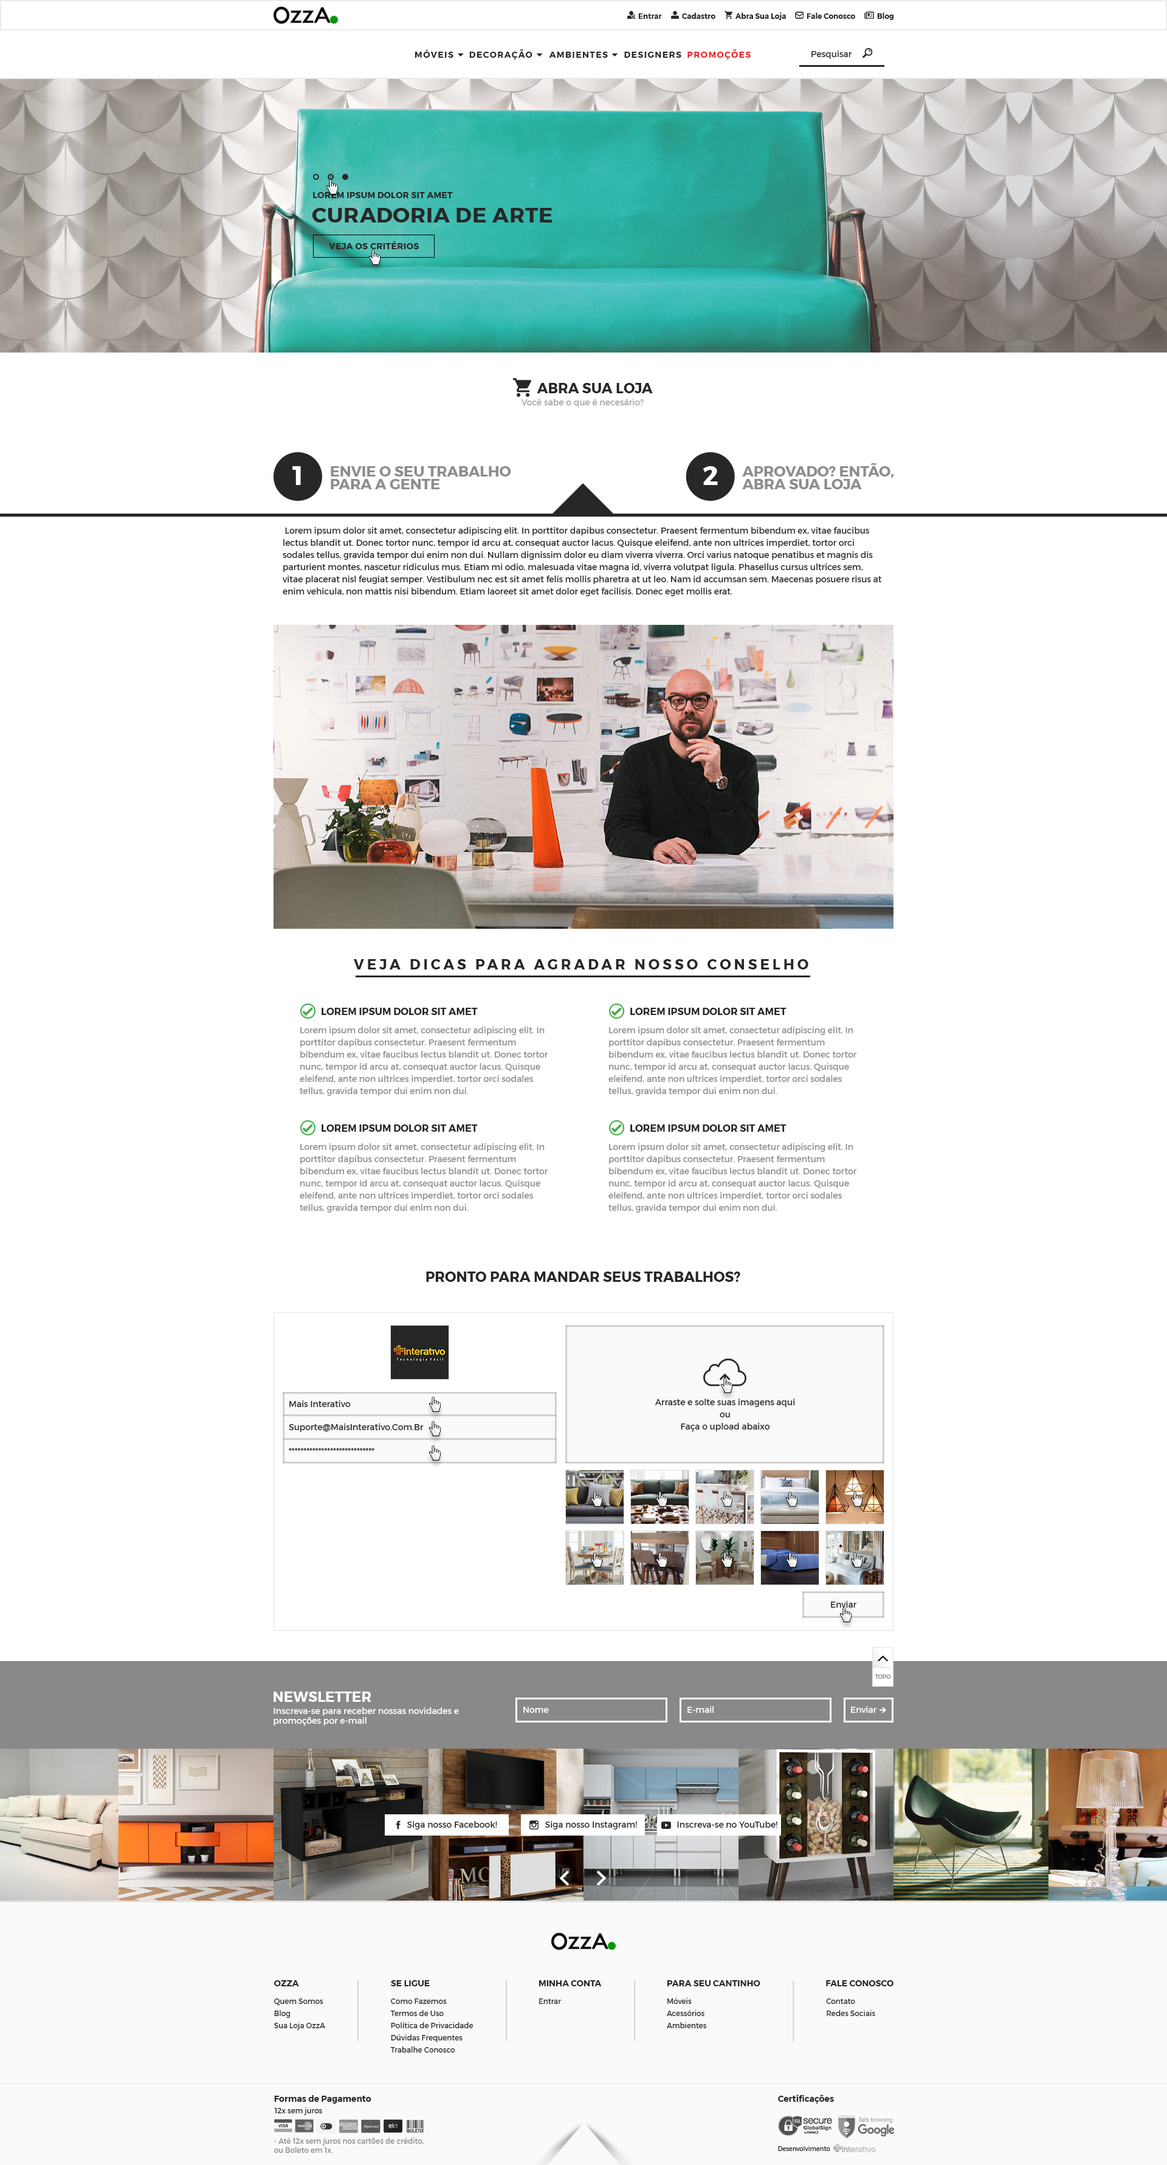
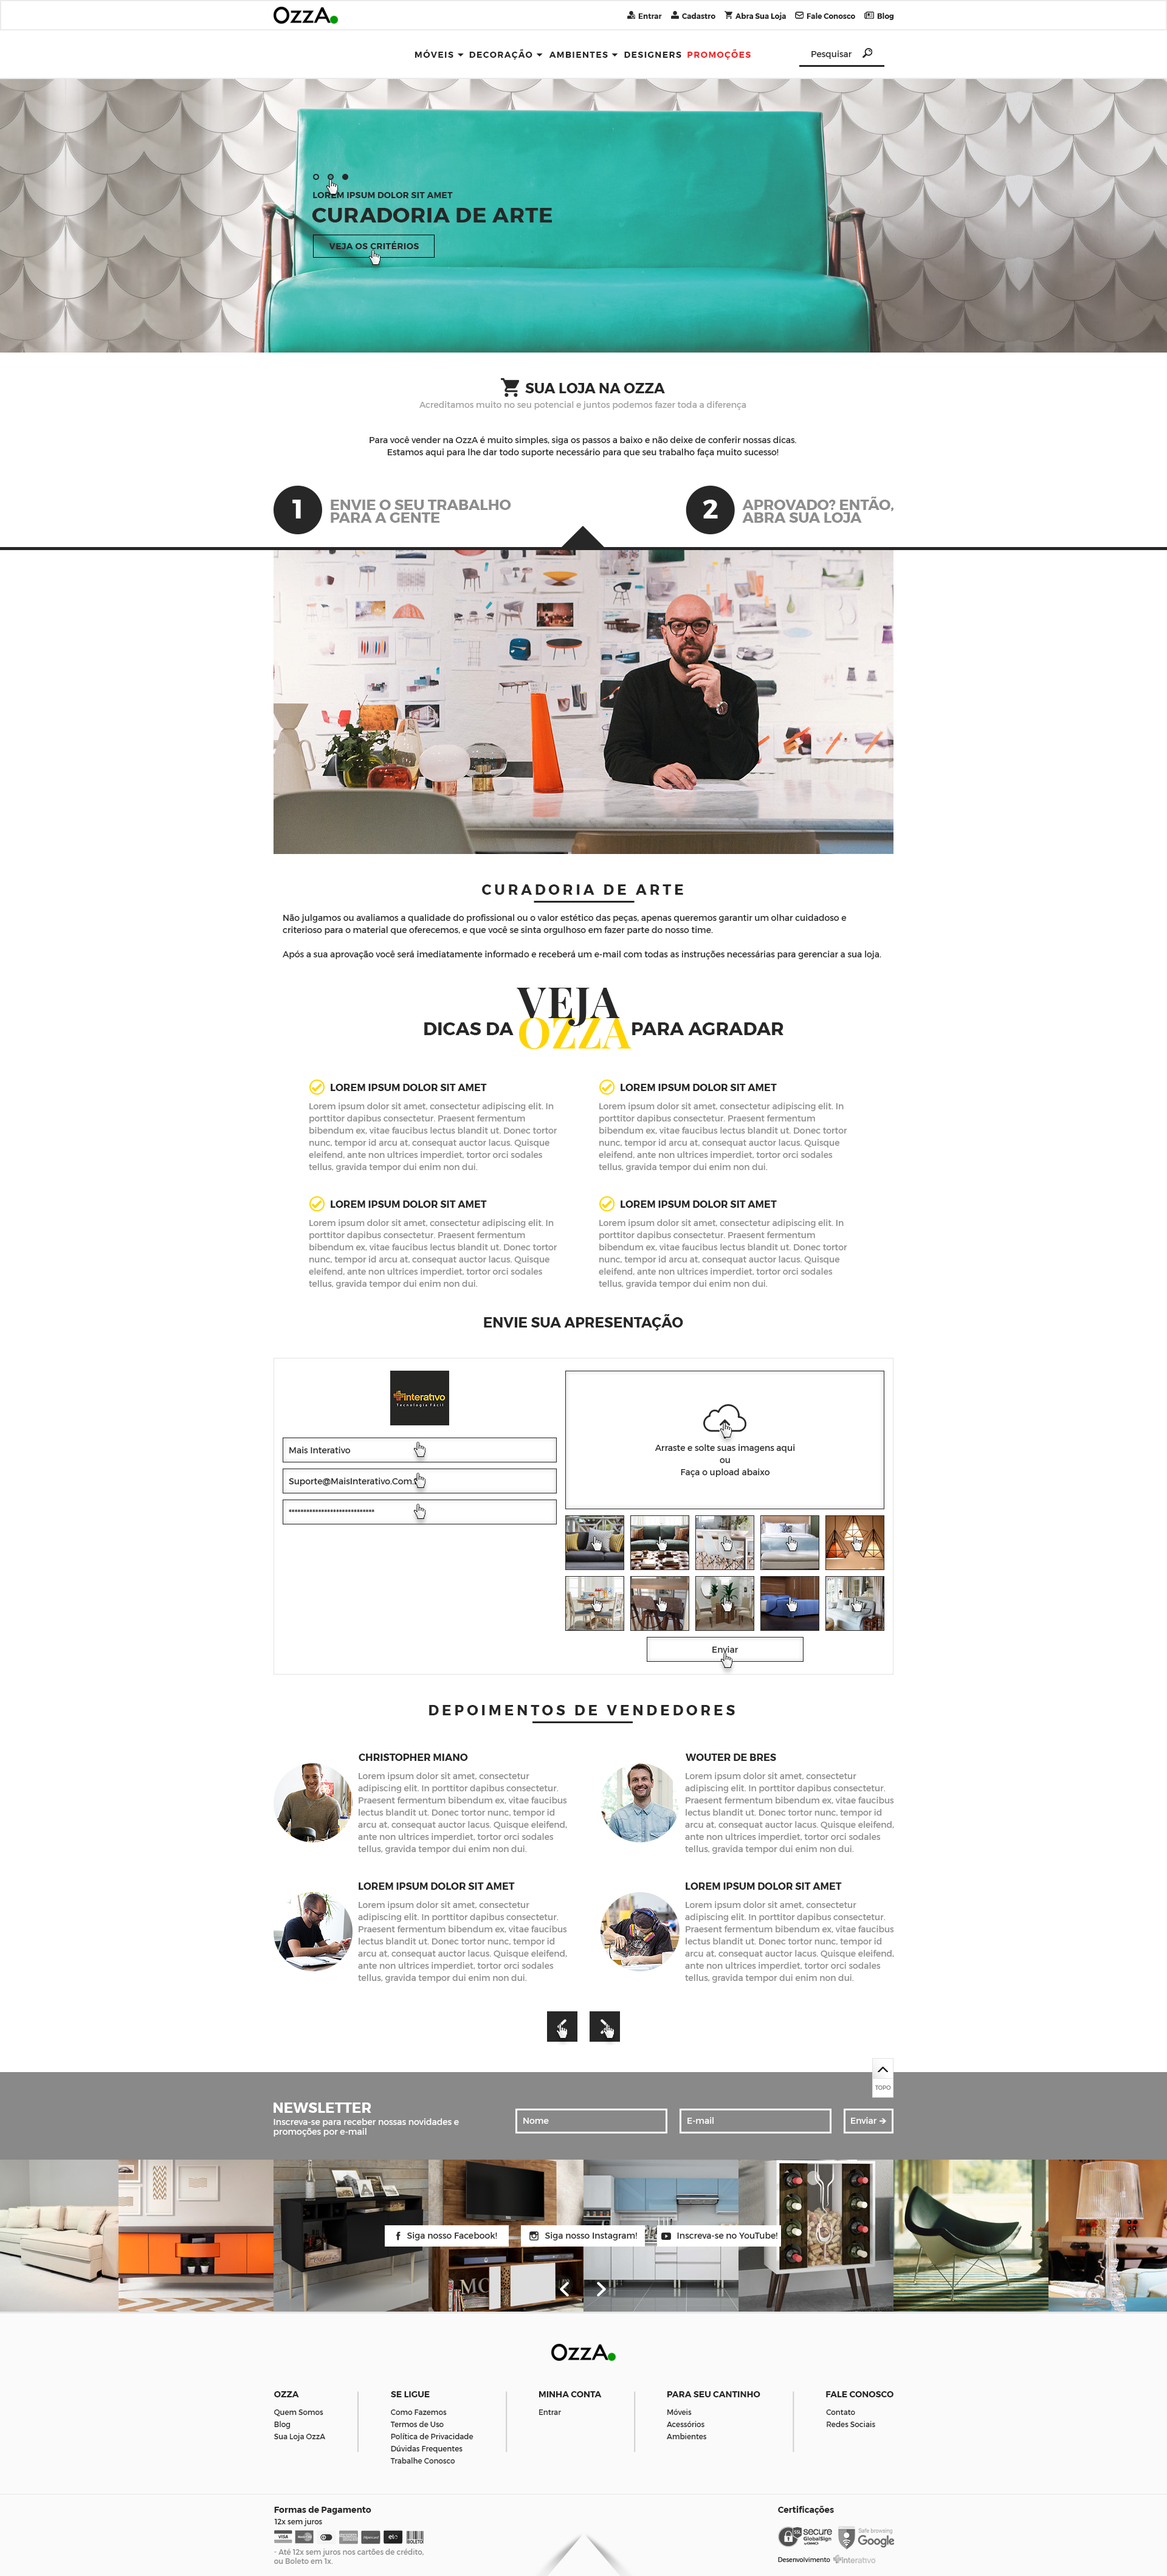
Add files via upload

diff --git a/css/style.css b/css/style.css
@@ -234,60 +234,60 @@
 		
 		.abrasualoja {
 			width: 100%;
-			height: 3562px;
+			height: 4238px;
 			background: url('../imgs/abrasualoja.png') no-repeat 50% 0%;
 		}
 		
 		.abrasualoja-hover {
 			width: 100%;
-			height: 3562px;
+			height: 4238px;
 			background: url('../imgs/abrasualoja-hover.png') no-repeat 50% 0%;
 		}
 		
 		.abrasualoja-active {
 			width: 100%;
-			height: 3562px;
+			height: 4238px;
 			background: url('../imgs/abrasualoja-active.png') no-repeat 50% 0%;
 		}
 		
 		.abrasualoja-erro {
 			width: 100%;
-			height: 3562px;
+			height: 4238px;
 			background: url('../imgs/abrasualoja-erro.png') no-repeat 50% 0%;
 		}
 		
 		.abrasualoja-sucesso {
 			width: 100%;
-			height: 3562px;
+			height: 4238px;
 			background: url('../imgs/abrasualoja-sucesso.png') no-repeat 50% 0%;
 		}
 		
 		.faleconosco {
 			width: 100%;
-			height: 1736px;
+			height: 1800px;
 			background: url('../imgs/faleconosco.png') no-repeat 50% 0%;
 		}
 		
 		.faleconosco-hover {
 			width: 100%;
-			height: 1736px;
+			height: 1800px;
 			background: url('../imgs/faleconosco-hover.png') no-repeat 50% 0%;
 		}
 		
 		.faleconosco-active {
 			width: 100%;
-			height: 1736px;
+			height: 1800px;
 			background: url('../imgs/faleconosco-active.png') no-repeat 50% 0%;
 		}
 		
 		.faleconosco-erro {
 			width: 100%;
-			height: 1736px;
+			height: 1800px;
 			background: url('../imgs/faleconosco-erro.png') no-repeat 50% 0%;
 		}
 		
 		.faleconosco-sucesso {
 			width: 100%;
-			height: 1736px;
+			height: 1800px;
 			background: url('../imgs/faleconosco-sucesso.png') no-repeat 50% 0%;
 		}
